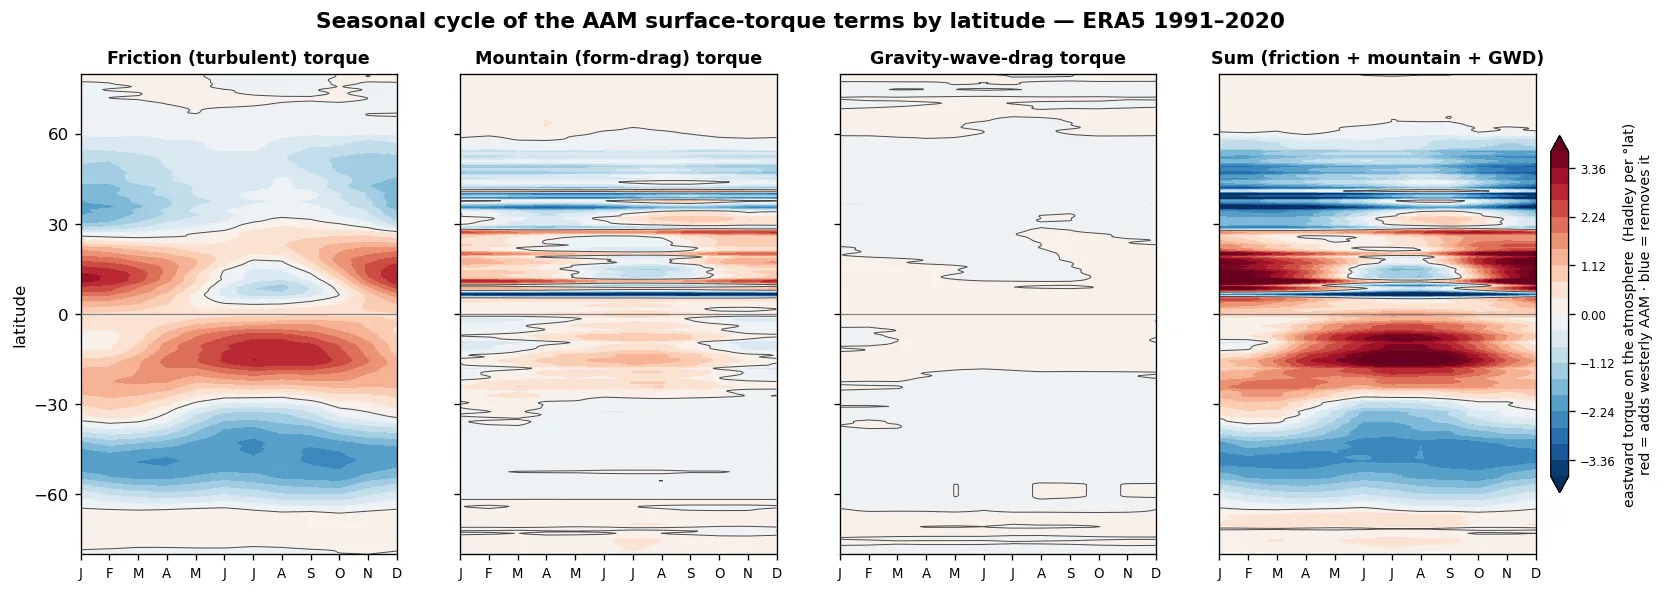
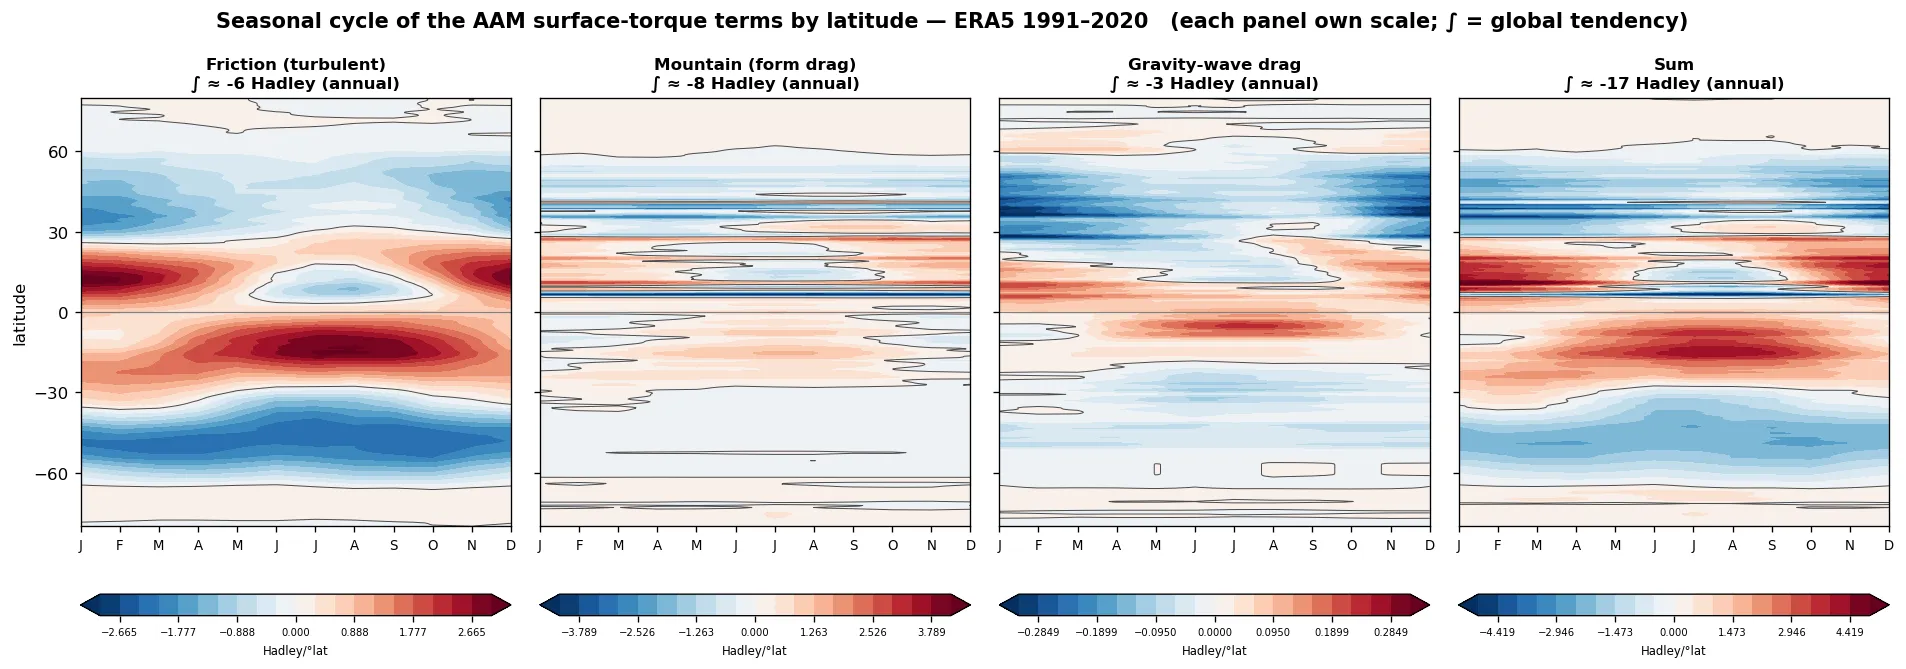
Seasonal-cycle figure: per-panel colour scales (shared scale washed out GWD — its density is ~15% of friction but its broad ∫≈−3 Hadley is ~half of friction) + global-tendency ∫ annotations

diff --git a/scripts/mjo/src/build_torque_clim.py b/scripts/mjo/src/build_torque_clim.py
@@ -92,21 +92,26 @@ def main() -> int:
     import scipy.ndimage as ndi
     data = {k: ndi.gaussian_filter1d(acc[k], 1.6, axis=1) for k in TERMS}   # smooth in latitude for clean contours
     data["sum"] = sum(data[k] for k in TERMS)
-    lim = float(np.nanpercentile(np.abs(np.concatenate([data[k][:, mm] for k, _ in panels])), 99))
-    fig, axes = plt.subplots(1, 4, figsize=(16, 5.2), sharey=True)
+    dphi = abs(lat[1] - lat[0])
+    # PER-PANEL scale: GWD's density is ~15% of friction's, so a shared scale washes
+    # it out — but its broad integral (∫) is a real budget term. Each panel its own
+    # colourbar; the ∫ annotation gives the global tendency so magnitudes stay honest.
+    fig, axes = plt.subplots(1, 4, figsize=(16, 5.6), sharey=True)
     for ax, (k, ttl) in zip(axes, panels):
+        lim = float(np.nanpercentile(np.abs(data[k][:, mm]), 99.5)) or 1e-9
+        gint = float(np.nanmean(np.nansum(data[k], axis=1)) * dphi)         # annual-mean global tendency, Hadley
         pc = ax.contourf(months, lat[mm], data[k][:, mm].T, levels=np.linspace(-lim, lim, 21),
                          cmap="RdBu_r", extend="both")
         ax.contour(months, lat[mm], data[k][:, mm].T, levels=[0], colors="0.3", linewidths=0.6)
-        ax.set_title(ttl, fontsize=10.5, fontweight="bold")
+        ax.set_title(f"{ttl}\n∫ ≈ {gint:+.0f} Hadley (annual)", fontsize=10, fontweight="bold")
         ax.set_xticks(months); ax.set_xticklabels(["J", "F", "M", "A", "M", "J", "J", "A", "S", "O", "N", "D"], fontsize=8)
         ax.axhline(0, color="0.5", lw=0.7); ax.set_yticks([-60, -30, 0, 30, 60])
+        cb = fig.colorbar(pc, ax=ax, orientation="horizontal", fraction=0.05, pad=0.13)
+        cb.set_label("Hadley/°lat", fontsize=7); cb.ax.tick_params(labelsize=6)
     axes[0].set_ylabel("latitude")
-    cb = fig.colorbar(pc, ax=axes, fraction=0.012, pad=0.01)
-    cb.set_label("eastward torque on the atmosphere  (Hadley per °lat)\nred = adds westerly AAM · blue = removes it", fontsize=8.5)
-    cb.ax.tick_params(labelsize=7)
-    fig.suptitle(f"Seasonal cycle of the AAM surface-torque terms by latitude — ERA5 {args.y0}–{args.y1}",
-                 fontsize=13, fontweight="bold")
+    fig.suptitle(f"Seasonal cycle of the AAM surface-torque terms by latitude — ERA5 {args.y0}–{args.y1}"
+                 "   (each panel own scale · red = adds westerly AAM · ∫ = global tendency)",
+                 fontsize=12.5, fontweight="bold")
     Path(args.out).parent.mkdir(parents=True, exist_ok=True)
     fig.savefig(args.out, dpi=120, bbox_inches="tight"); plt.close(fig)
     print(f"saved {args.out}")
